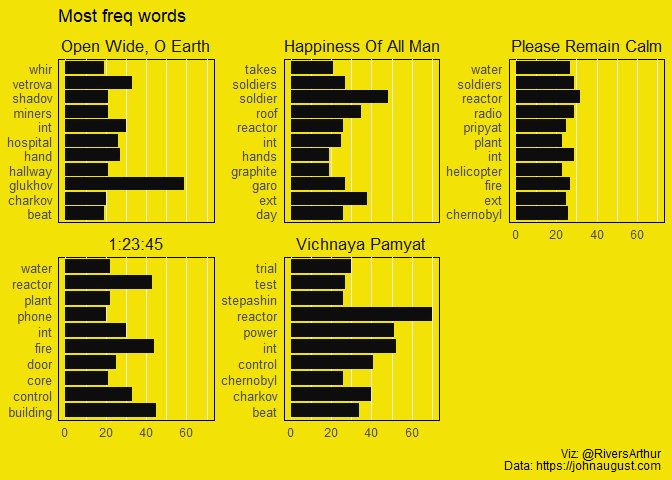
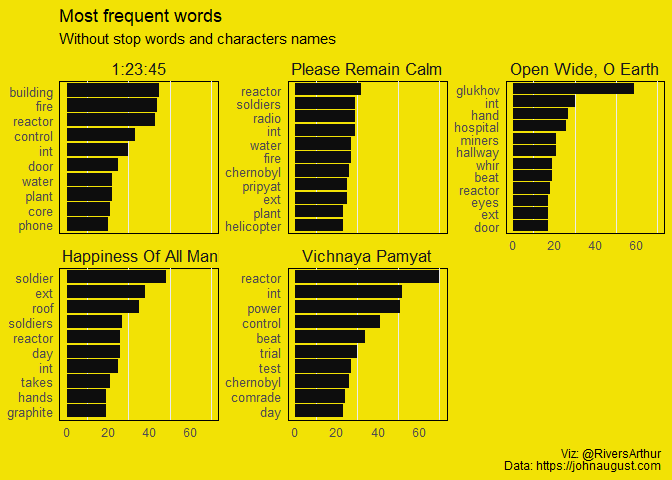
tf-idf and net

Changed region(s): [[0.0, 0.0, 1.0, 0.9062], [0.0938, 0.875, 0.125, 0.9062]]

diff --git a/chernobyl/chernobyl.md b/chernobyl/chernobyl.md
@@ -47,9 +47,9 @@ chernobyl <- tibble(episode = pdf_names, text = raw_text) %>%
   mutate(
     episode =
       case_when(
-        .$episode == "11_23_45.pdf" ~ "1:23:45",
-        .$episode == "2Please-Remain-Calm.pdf" ~ "Please Remain Calm",
-        .$episode == "3Open-Wide-O-Earth.pdf" ~ "Open Wide, O Earth",
+        .$episode == "11_23_45.pdf"                      ~ "1:23:45",
+        .$episode == "2Please-Remain-Calm.pdf"           ~ "Please Remain Calm",
+        .$episode == "3Open-Wide-O-Earth.pdf"            ~ "Open Wide, O Earth",
         .$episode == "4The-Happiness-Of-All-Mankind.pdf" ~ "The Happiness Of All Mankind",
         TRUE           ~ "Vichnaya Pamyat"
       )
@@ -66,7 +66,10 @@ text. With all that said, let’s travel to the north of Ukraine.
 ``` r
 chernobyl_tidy <- chernobyl %>% 
   unnest %>% # pdfs_text is a list
-  unnest_tokens(word, text, strip_numeric = TRUE)
+  unnest_tokens(word, text, strip_numeric = TRUE) %>% 
+  mutate(episode = factor(episode,
+                          levels = c("1:23:45", "Please Remain Calm", "Open Wide, O Earth",
+                                     "The Happiness Of All Mankind", "Vichnaya Pamyat")))
 ```
 
 ## Filtering
@@ -85,31 +88,112 @@ characters <- c("legasov", "shcherbina", "dyatlov", "bacho", "pavel",
                 "shcherbina", "khomyuk", "toptunov", "akimov", "lyudmilla",
                 "bryukhanov", "tarakanov", "fomin", "sitnikov", "gorbachev",
                 "vasily", "pikalov", "dmitri", "yuvchenko", "gorbachenko",
-                "stolyarchuk")
+                "stolyarchuk", "boris", "charkov", "vetrova", "shadov",
+                "garo", "stepashin")
 ```
 
+## Ploting Frequency
+
 ``` r
+reorder_within <- function(x, by, within, fun = mean, sep = "___", ...) {
+  new_x <- paste(x, within, sep = sep)
+  stats::reorder(new_x, by, FUN = fun)
+}
+scale_x_reordered <- function(..., sep = "___") {
+  reg <- paste0(sep, ".+$")
+  ggplot2::scale_x_discrete(labels = function(x) gsub(reg, "", x), ...)
+}
 chernobyl_tidy_fil %>% 
   group_by(episode, word) %>% 
   count(sort = TRUE) %>% 
   filter(!word %in% characters) %>% 
   group_by(episode) %>% 
   top_n(10, n) %>%
-  ungroup() %>% 
-  mutate(
-    episode = fct_reorder(episode, n)
-  ) %>% 
-  ggplot(aes(word, n))+
+  ungroup() %>%
+  ggplot(aes(reorder_within(word, n, episode), n))+
   geom_col(fill = "#0D0D0D")+
+  scale_x_reordered()+
   facet_wrap(~episode, scales = "free_y")+
   coord_flip()+
   theme_minimal()+theme(legend.position = "none")+
   labs(caption = "Viz: @RiversArthur \nData: https://johnaugust.com ",
-       x = NULL, y = NULL, title = "Most freq words")+
+       x = NULL, y = NULL, title = "Most frequent words",
+       subtitle = "Without stop words and characters names")+
   theme(panel.background = element_rect(fill = "#F2E205"), strip.text = element_text(size = 13),
-        panel.grid.major.y = element_blank(),
+        panel.grid.major.y = element_blank(), panel.grid.major = element_blank(),
         axis.text.y = element_text(size = 10),
         plot.background = element_rect(fill = "#F2E205", color = "#F2E205"))
 ```
 
 <img src="chernobyl_files/figure-gfm/Most frequent word-1.png" style="display: block; margin: auto;" />
+
+## TF-IDF
+
+``` r
+chernobyl_tidy_fil_per_epi <- chernobyl_tidy_fil %>% 
+  count(episode, word, sort = TRUE) %>% 
+  ungroup()
+
+total_words <- chernobyl_tidy_fil_per_epi %>% 
+  group_by(episode) %>% 
+  summarise(total = sum(n))
+
+chernobyl_tidy_fil_per_epi <- left_join(chernobyl_tidy_fil_per_epi, total_words)
+```
+
+    ## Joining, by = "episode"
+
+``` r
+chernobyl_tidy_fil_per_epi <- chernobyl_tidy_fil_per_epi %>%
+  bind_tf_idf(word, episode, n )
+
+chernobyl_tidy_fil_per_epi %>%
+  arrange(desc(tf_idf)) %>%
+  mutate(word = factor(word, levels = rev(unique(word)))) %>%
+  group_by(episode) %>%
+  top_n(10) %>% 
+  ungroup %>% 
+  ggplot(aes(reorder_within(word, tf_idf, episode), tf_idf)) +
+  geom_col(show.legend = FALSE, fill = "#0D0D0D")+
+  facet_wrap(~episode, ncol = 1, scales = "free_y") + 
+  coord_flip()+
+  scale_x_reordered()+ scale_y_continuous(labels = c("Less important words\n in each episode",
+                                                     "Important words\n in each episode"),
+                                          breaks = c(0.001,.033))+
+  theme_minimal()+theme(legend.position = "none")+
+  labs(caption = "Viz: @RiversArthur \nData: https://johnaugust.com ",
+       x = NULL, y = NULL, title = "Highest tf-idf words in each of Chernobyl's episodes")+
+  theme(panel.background = element_rect(fill = "#F2E205"), strip.text = element_text(size = 13),
+        panel.grid.major = element_blank(), panel.grid = element_blank(),
+        axis.text.y = element_text(size = 10),
+        plot.background = element_rect(fill = "#F2E205", color = "#F2E205"))
+```
+
+    ## Selecting by tf_idf
+
+<img src="chernobyl_files/figure-gfm/TF-IDF-1.png" style="display: block; margin: auto;" />
+
+``` r
+chernobyl_bigram <- chernobyl_tidy_fil %>% 
+  unnest_tokens(bigram, word, token = "ngrams", n = 2) %>%
+  separate(bigram, c("word1", "word2"), sep = " ") %>%
+  filter(!word1 %in% stop_words$word,
+         !word2 %in% stop_words$word) %>%
+  group_by(episode) %>%
+  count(word1, word2, sort = TRUE) %>%
+  filter(n > 4) %>% 
+  graph_from_data_frame()
+
+a <- grid::arrow(type = "closed", length = unit(.10, "inches"))
+
+ggraph(chernobyl_bigram, layout = "fr") +  
+  geom_edge_link(aes(edge_alpha = log(n)), show.legend = FALSE, arrow = a, end_cap = circle(.05, 'inches')) +
+  geom_node_point(color = "#0D0D0D", size = 4) +  
+  geom_node_text(aes(label = name), vjust = 1, hjust = 1, color = "#5e4e00", size = 4.5) +  
+  theme_void()+
+  labs(caption = "Viz: @RiversArthur \nData: https://johnaugust.com ")+
+  theme(panel.background = element_rect(fill = "#F2E205"),plot.background = element_rect(fill = "#F2E205",
+                                                                                         color = "#F2E205"))
+```
+
+<img src="chernobyl_files/figure-gfm/Relationship between words-1.png" style="display: block; margin: auto;" />
